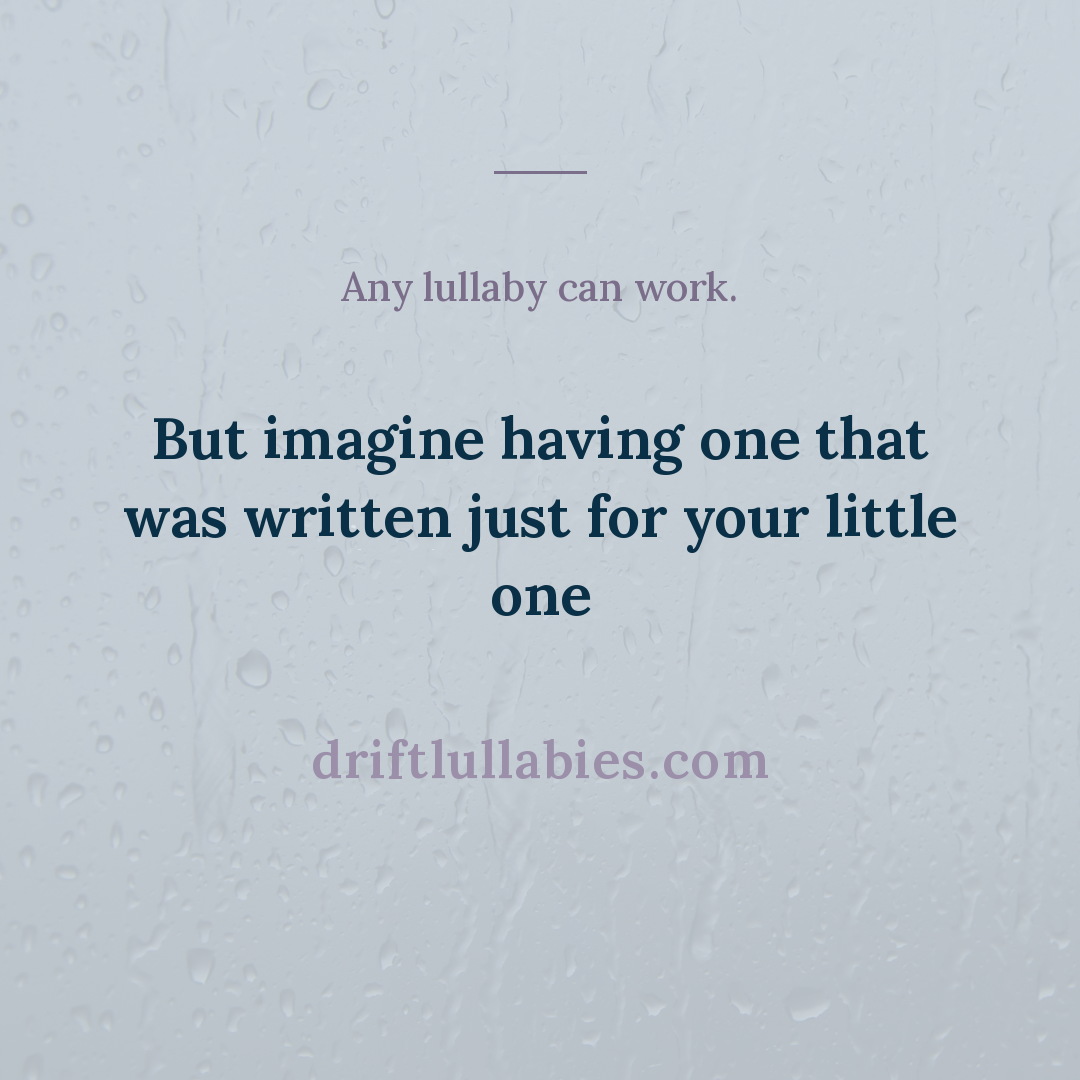
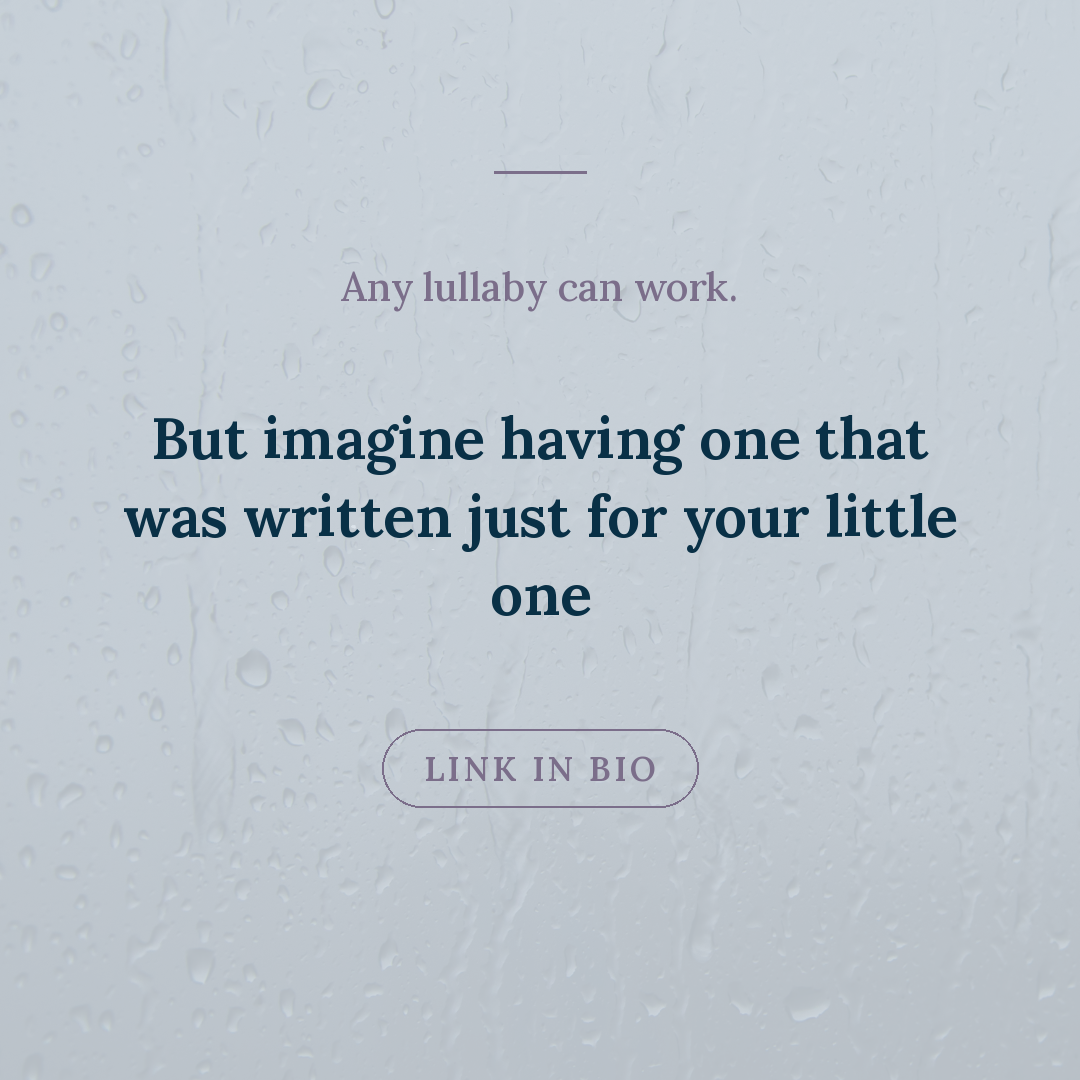
Add poetry-02-legacy-voice (Poetry 02 - Legacy Voice)

Changed region(s): [[0.275, 0.6722, 0.7333, 0.7333]]

diff --git a/posts/poetry-02-legacy-voice/slides.md b/posts/poetry-02-legacy-voice/slides.md
@@ -41,3 +41,29 @@ Any lullaby can work. But imagine having one that was written just for your litt
 *Caption expanded (Aug 30) — it previously carried only the cover line with no ask and no URL,
 so "link in bio" never appeared anywhere for this post despite CTA = Website. Now matches 73's
 and POV 01's convention of stating the ask in the caption, not just on the closing slide.*
+
+---
+
+## ⚠ SLIDE 4 RE-RENDERED 2026-09-04 — the URL was a BUG, not this lane's convention
+
+Ben: *"poetry lane should be the pill, not the driftlullabies.com that must be an error not an
+exception."*
+
+`render_photo_cta` had **no pill path at all** — it only ever drew the `driftlullabies.com` line,
+which [[drift-website-cta-locked]] retired on 2026-08-27 when the bio link landed. So the whole
+lullaby-poetry lane kept shipping the old convention while every other website CTA moved to the
+pill.
+
+**Why it stayed invisible for over a week:** this file already said "pill card" and the caption
+already said "link in bio." Only the rendered PNG disagreed, and nothing in the pipeline compares a
+slides.md heading against the pixels it produced. The copy checks read copy; the render checks read
+file integrity; neither reads *meaning* off an image.
+
+`render_photo_cta` now defaults to the pill and matches `render_cta`'s `_PILL_AUTO` rule exactly —
+pass a real address and you get that line instead, because "LINK IN BIO" would point at the wrong
+destination.
+
+**This post was still queued** (Buffer, Sun Sep 6 7:30pm ET) and Buffer references the raw GitHub
+URL rather than an uploaded copy, so re-pushing the corrected PNG is enough — no need to touch the
+Buffer post. **Poetry 01 published Aug 27 and is left alone**; it shipped with the URL and that is
+what shipped.
